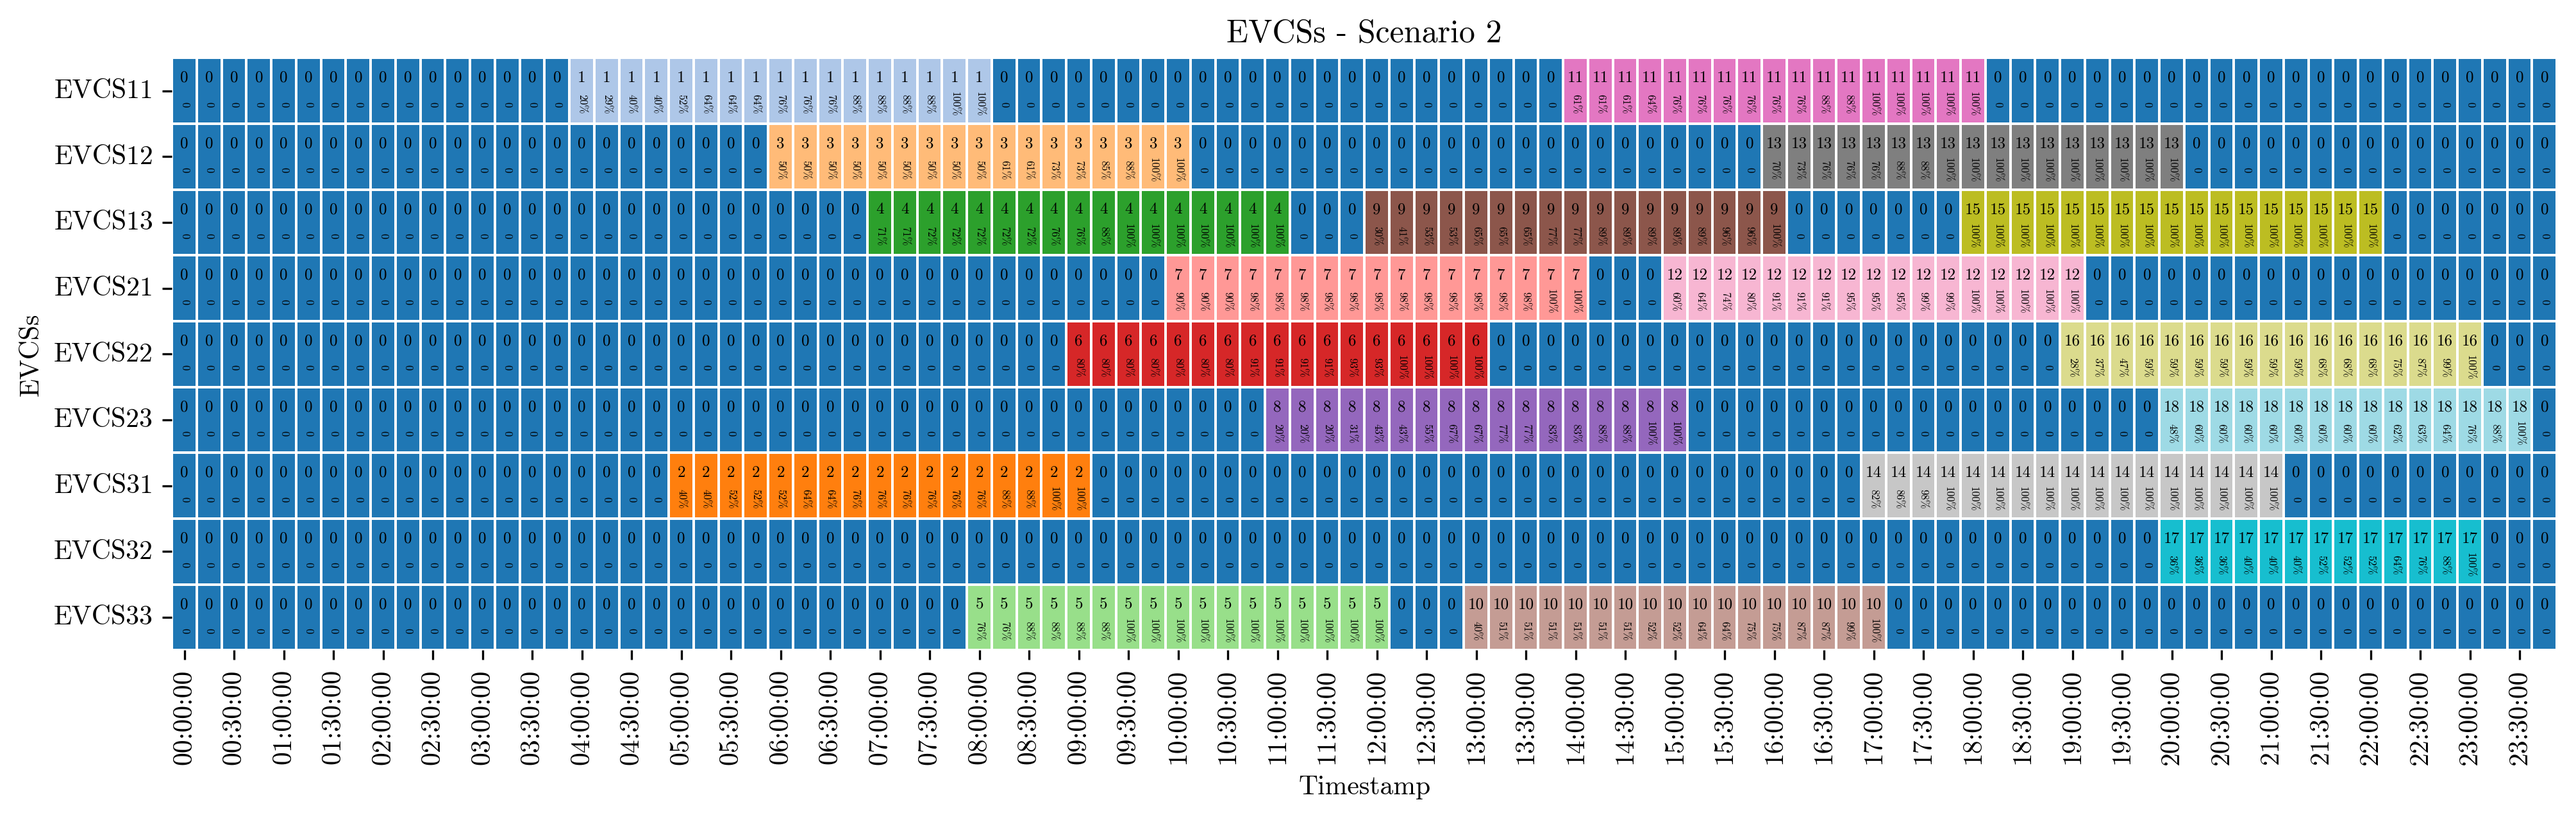
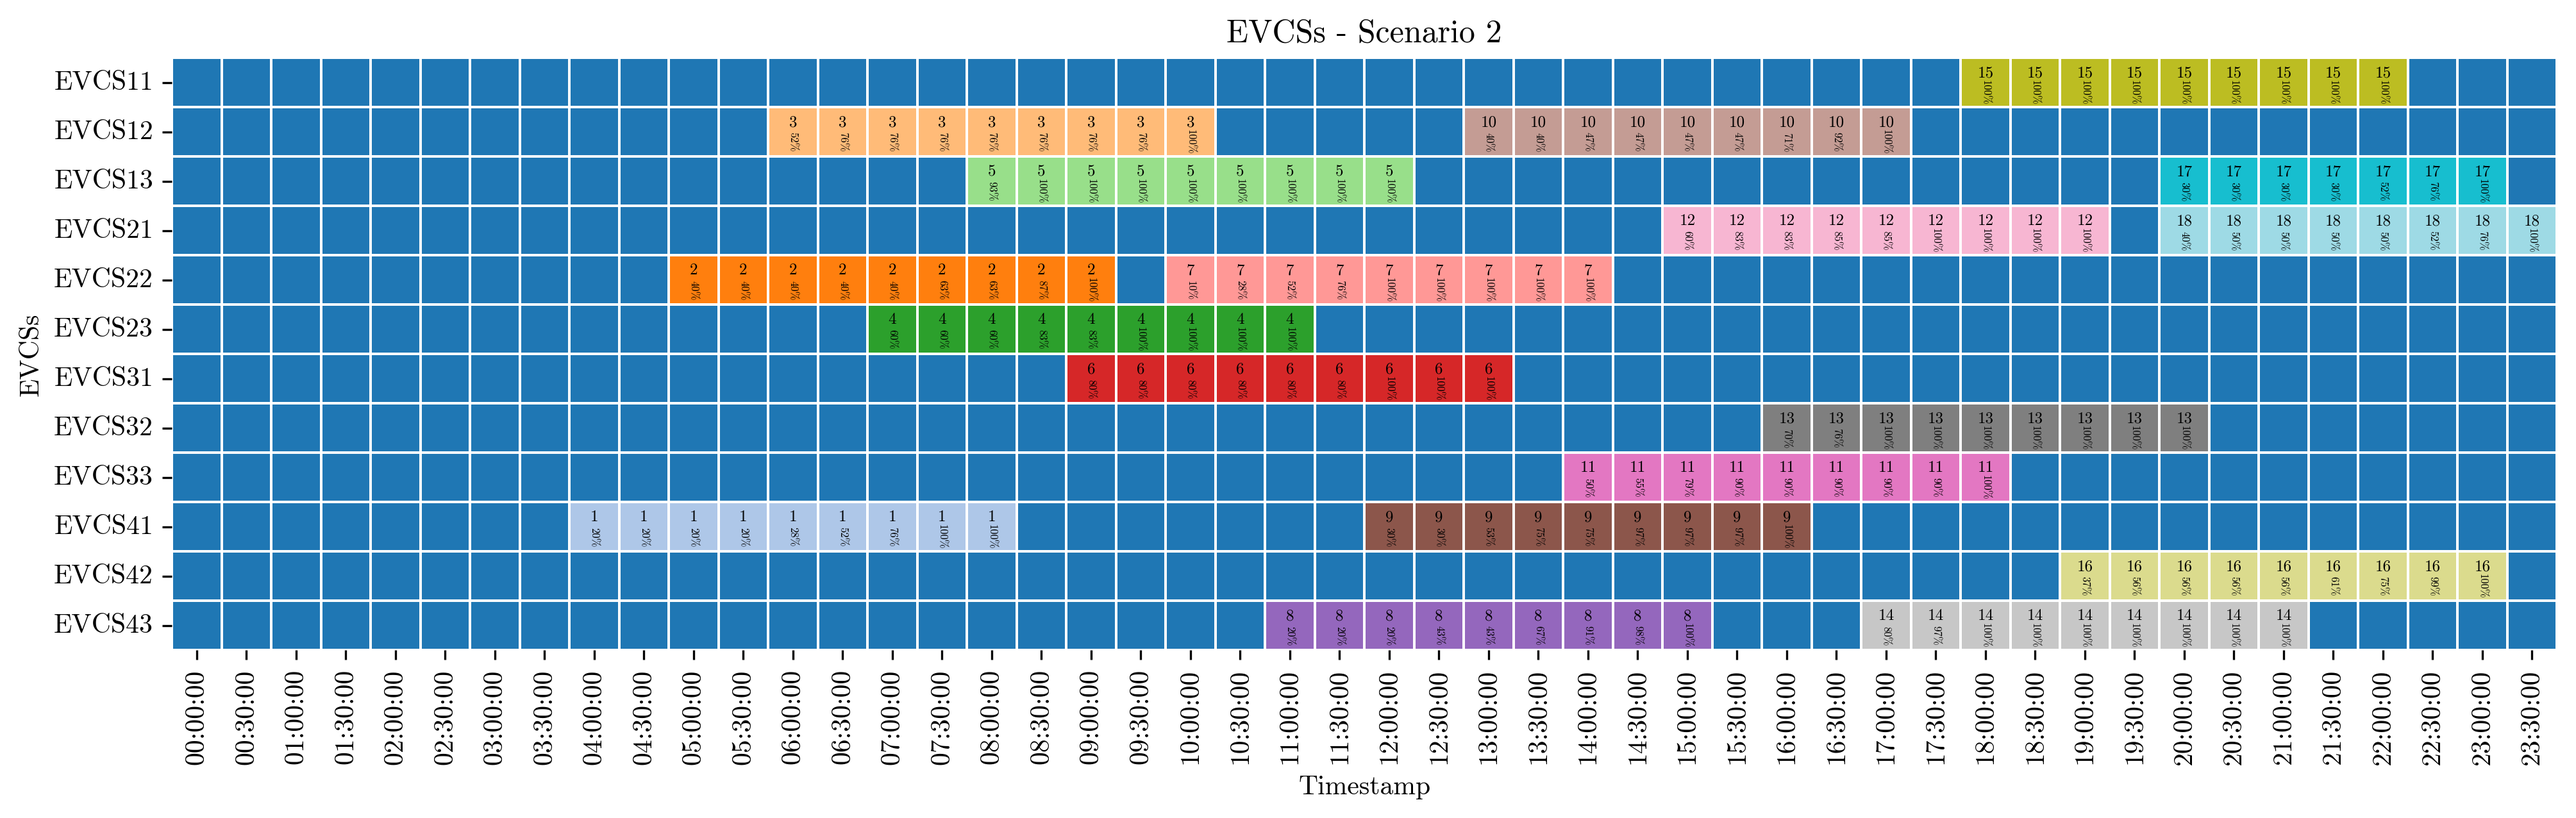
add new constraints

diff --git a/main.py b/main.py
@@ -35,6 +35,10 @@ with open('data/EVCSs.json') as file:
 Ωc = list()
 Ωt = list()
 
+Ωc_dc = dict()
+Ωc_ac = dict()
+
+
 t = datetime.strptime('00:00', "%H:%M")
 while t < datetime.strptime('23:59', "%H:%M"):
     Ωt.append(t.strftime("%H:%M"))
@@ -42,6 +46,10 @@ while t < datetime.strptime('23:59', "%H:%M"):
 
 # EVCSs definition
 for evcs in EVCS.keys():
+    dc = [connector for connector in EVCS[evcs]['connector'].keys() if EVCS[evcs]['connector'][connector]['current'] == 'DC']
+    ac = [connector for connector in EVCS[evcs]['connector'].keys() if EVCS[evcs]['connector'][connector]['current'] == 'AC']
+    Ωc_dc[evcs] = dc
+    Ωc_ac[evcs] = ac
     for connector in EVCS[evcs]['connector'].keys():
         Ωc.append((evcs, connector))
 
@@ -221,6 +229,20 @@ def EVdischargingdeparture(model, t, s, e):
         return pyo.Constraint.Skip
 model.EVdischargingdeparture = pyo.Constraint(Ωt, Ωs, Ωe, rule=EVdischargingdeparture)
 
+def αDCconstraint(model, t, s, evcs):
+    return sum(model.αEV[t, s, e, evcs, connector] for e in Ωe for connector in Ωc_dc[evcs]) <= EVCS[evcs]['NDC']
+model.αDCconstraint = pyo.Constraint(Ωt, Ωs, Ωc_dc.keys(), rule=αDCconstraint)
+
+def αACconstraint(model, t, s, evcs):
+    return sum(model.αEV[t, s, e, evcs, connector] for e in Ωe for connector in Ωc_ac[evcs]) <= EVCS[evcs]['NAC']
+model.αACconstraint = pyo.Constraint(Ωt, Ωs, Ωc_ac.keys(), rule=αACconstraint)
+
+def EVconnectorconstraint(model, t, s, e, evcs, connector):
+    if EVCS[evcs]['connector'][connector]['type'] != EV[e]['Connector']:
+        return model.αEV[t, s, e, evcs, connector] == 0
+    else:
+        return pyo.Constraint.Skip
+model.EVconnectorconstraint = pyo.Constraint(Ωt, Ωs, Ωe, Ωc, rule=EVconnectorconstraint)
 
 results = SolverFactory('gurobi').solve(model)
 
@@ -291,6 +313,8 @@ for s in Ωs:
                     idev = int(e)
                     idsoc = int(100 * pyo.value(model.SoCEV[t, s, e]))
                     annotation = f'{idev}\n{idsoc}%'  # Atualiza a anotação com valores reais
+            if idev == 0:
+                annotation = f'\n'  # Atualiza a anotação com valores reais
 
             values.append(idev)  # Adiciona o valor de idev para a coloração
             annotations.append(annotation)  # Adiciona a string formatada para anotações
